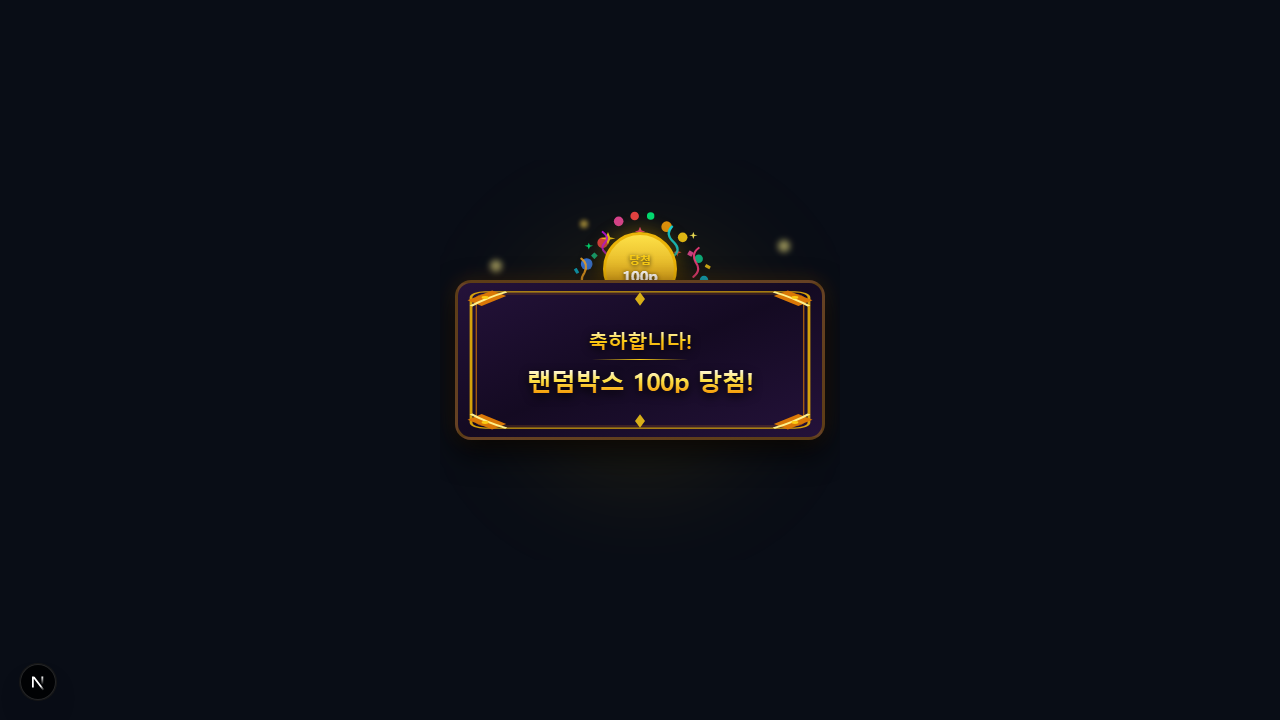
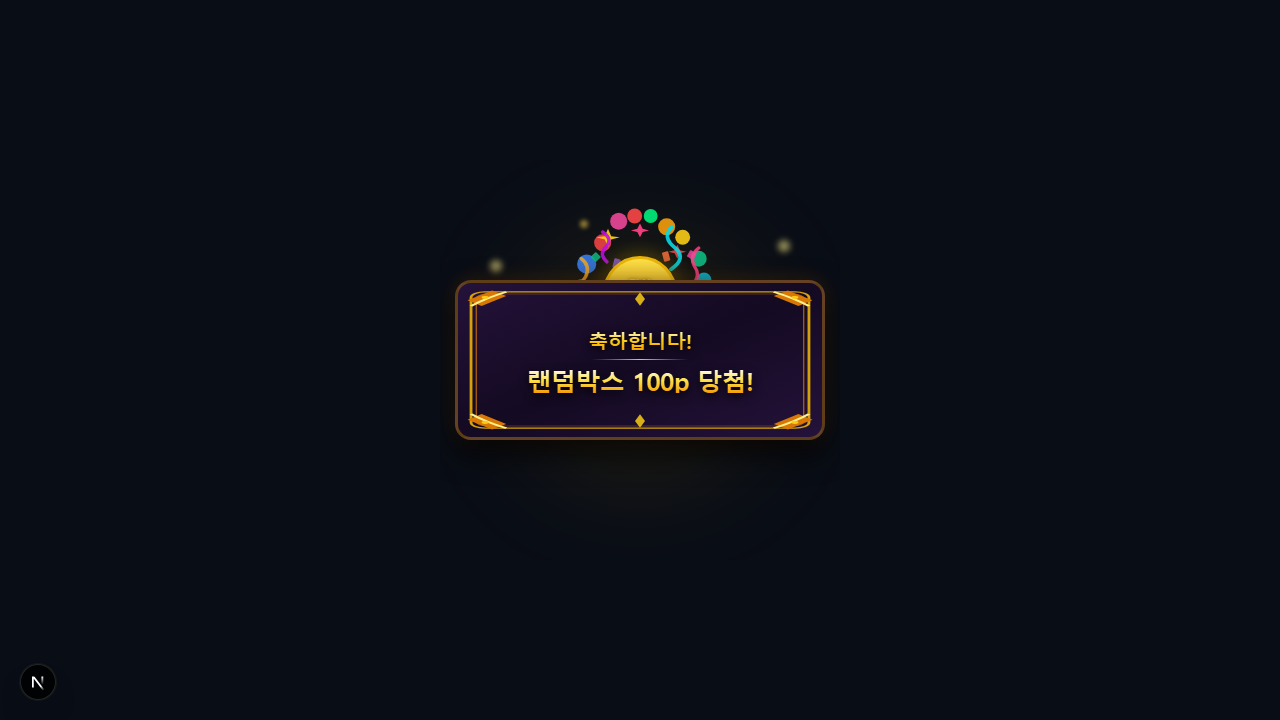
fix: 꽝/당첨 뱃지 Y축 위치 조정 및 폭죽 파티클 크기 2배 확대 적용

Changed region(s): [[0.4375, 0.275, 0.5625, 0.3972]]

diff --git a/app/render-banners/page.tsx b/app/render-banners/page.tsx
@@ -205,48 +205,44 @@ function LuckyBoxBanner({ amount }: { amount: number }) {
             <path d="M 125,117.5 L 125,197.5 L 135,192.5 L 135,112.5 Z" fill="url(#ribbonGrad2)" />
           </g>
 
-          {/* 폭죽 파티클 (정적 - 상자에서 위로 사방 부채꼴로 퍼져나감) */}
+          {/* 폭죽 파티클 (정적 - 상자에서 위로 사방 부채꼴로 퍼져나감, 크기 상향 조정) */}
           {/* 원형 파티클 */}
-          <circle cx="65" cy="40" r="5" fill="#ef4444" opacity="0.9" />
-          <circle cx="140" cy="35" r="4.5" fill="#facc15" opacity="0.9" />
-          <circle cx="50" cy="60" r="5.5" fill="#3b82f6" opacity="0.85" />
-          <circle cx="155" cy="55" r="4" fill="#10b981" opacity="0.9" />
-          <circle cx="80" cy="20" r="4.5" fill="#ec4899" opacity="0.9" />
-          <circle cx="125" cy="25" r="5" fill="#f59e0b" opacity="0.9" />
-          <circle cx="45" cy="80" r="3.5" fill="#8b5cf6" opacity="0.85" />
-          <circle cx="160" cy="75" r="4" fill="#06b6d4" opacity="0.9" />
-          <circle cx="95" cy="15" r="4" fill="#ef4444" opacity="0.95" />
-          <circle cx="110" cy="15" r="3.5" fill="#00e676" opacity="0.95" />
-          <circle cx="35" cy="95" r="4" fill="#ffee58" opacity="0.9" />
-          <circle cx="170" cy="90" r="3" fill="#2979ff" opacity="0.9" />
+          <circle cx="65" cy="40" r="8" fill="#ef4444" opacity="0.9" />
+          <circle cx="140" cy="35" r="7" fill="#facc15" opacity="0.9" />
+          <circle cx="50" cy="60" r="9" fill="#3b82f6" opacity="0.85" />
+          <circle cx="155" cy="55" r="7.5" fill="#10b981" opacity="0.9" />
+          <circle cx="80" cy="20" r="8" fill="#ec4899" opacity="0.9" />
+          <circle cx="125" cy="25" r="8" fill="#f59e0b" opacity="0.9" />
+          <circle cx="45" cy="80" r="6" fill="#8b5cf6" opacity="0.85" />
+          <circle cx="160" cy="75" r="7" fill="#06b6d4" opacity="0.9" />
+          <circle cx="95" cy="15" r="7" fill="#ef4444" opacity="0.95" />
+          <circle cx="110" cy="15" r="6.5" fill="#00e676" opacity="0.95" />
+          <circle cx="35" cy="95" r="7" fill="#ffee58" opacity="0.9" />
+          <circle cx="170" cy="90" r="5" fill="#2979ff" opacity="0.9" />
           
-          {/* 별 모양 파티클 */}
-          <path d="M 70,30 L 72,35 L 77,36 L 72,37 L 70,42 L 68,37 L 63,36 L 68,35 Z" fill="#facc15" opacity="0.95" />
-          <path d="M 135,45 L 136,48 L 139,49 L 136,50 L 135,53 L 134,50 L 131,49 L 134,48 Z" fill="#ef4444" opacity="0.9" />
-          <path d="M 100,25 L 101.5,28.5 L 105,29.5 L 101.5,30.5 L 100,34 L 98.5,30.5 L 95,29.5 L 98.5,28.5 Z" fill="#ff4081" opacity="0.95" />
-          <path d="M 52,40 L 53,42.5 L 56,43 L 53,43.8 L 52,46.5 L 51,43.8 L 48,43 L 51,42.5 Z" fill="#00e676" opacity="0.9" />
-          <path d="M 150,30 L 151,32.5 L 154,33 L 151,33.8 L 150,36.5 L 149,33.8 L 146,33 L 149,32.5 Z" fill="#ffee58" opacity="0.9" />
+          {/* 별 모양 파티클 (크기 확대) */}
+          <path d="M 70,27 L 73,34 L 81,35 L 73,37 L 70,44 L 67,37 L 59,35 L 67,34 Z" fill="#facc15" opacity="0.95" />
+          <path d="M 135,42 L 137.5,47 L 143.5,48.5 L 137.5,50 L 135,55 L 132.5,50 L 126.5,48.5 L 132.5,47 Z" fill="#ef4444" opacity="0.9" />
+          <path d="M 100,22 L 102.5,27 L 108.5,28.5 L 102.5,30 L 100,35 L 97.5,30 L 91.5,28.5 L 97.5,27 Z" fill="#ff4081" opacity="0.95" />
 
-          {/* 나선형 스트리머 (구불구불 리본) 파티클 */}
-          <path d="M 65,30 Q 72,35 67,40 Q 62,45 68,50" fill="none" stroke="#bd10e0" strokeWidth="2" strokeLinecap="round" opacity="0.9" />
-          <path d="M 130,25 Q 123,32 132,40 Q 140,48 128,55" fill="none" stroke="#05d9e8" strokeWidth="2.2" strokeLinecap="round" opacity="0.9" />
-          <path d="M 155,45 Q 148,50 152,58 Q 158,66 150,72" fill="none" stroke="#ff4081" strokeWidth="2" strokeLinecap="round" opacity="0.85" />
-          <path d="M 45,55 Q 52,60 48,68 Q 42,76 50,82" fill="none" stroke="#f5a623" strokeWidth="2" strokeLinecap="round" opacity="0.85" />
+          {/* 나선형 스트리머 (구불구불 리본) 파티클 (선 굵기 및 크기 확대) */}
+          <path d="M 65,30 Q 75,37 68,44 Q 61,51 69,58" fill="none" stroke="#bd10e0" strokeWidth="3.2" strokeLinecap="round" opacity="0.9" />
+          <path d="M 130,25 Q 120,35 133,45 Q 144,55 129,65" fill="none" stroke="#05d9e8" strokeWidth="3.5" strokeLinecap="round" opacity="0.9" />
+          <path d="M 155,45 Q 146,52 151,62 Q 158,72 148,80" fill="none" stroke="#ff4081" strokeWidth="3.2" strokeLinecap="round" opacity="0.85" />
+          <path d="M 45,55 Q 54,62 49,72 Q 41,82 51,90" fill="none" stroke="#f5a623" strokeWidth="3.2" strokeLinecap="round" opacity="0.85" />
 
-          {/* 사각형/리본 조각 파티클 */}
-          <rect x="55" y="50" width="4.5" height="4.5" rx="0.5" fill="#10b981" opacity="0.85" transform="rotate(45 57.25 52.25)" />
-          <rect x="145" y="48" width="4.5" height="4.5" rx="0.5" fill="#ec4899" opacity="0.85" transform="rotate(30 147.25 50.25)" />
-          <rect x="75" y="55" width="4" height="6" rx="0.5" fill="#8b5cf6" opacity="0.85" transform="rotate(15 77 58)" />
-          <rect x="120" y="50" width="6" height="6" rx="0.5" fill="#ff7043" opacity="0.85" transform="rotate(75 123 53)" />
-          <rect x="38" y="65" width="5" height="3" rx="0.5" fill="#06b6d4" opacity="0.8" transform="rotate(60 40.5 66.5)" />
-          <rect x="162" y="60" width="3" height="5" rx="0.5" fill="#facc15" opacity="0.8" transform="rotate(120 163.5 62.5)" />
+          {/* 사각형/리본 조각 파티클 (크기 확대) */}
+          <rect x="55" y="50" width="7" height="7" rx="1" fill="#10b981" opacity="0.85" transform="rotate(45 58.5 53.5)" />
+          <rect x="145" y="48" width="7" height="7" rx="1" fill="#ec4899" opacity="0.85" transform="rotate(30 148.5 51.5)" />
+          <rect x="75" y="55" width="6" height="9" rx="1" fill="#8b5cf6" opacity="0.85" transform="rotate(15 78 59.5)" />
+          <rect x="120" y="50" width="9" height="6" rx="1" fill="#ff7043" opacity="0.85" transform="rotate(75 124.5 53)" />
         </svg>
 
         {/* ═══ 당첨 코인 (HTML 오버레이 - z-index: 20으로 폭죽보다 위) ═══ */}
         <div 
           className="absolute left-1/2 -translate-x-1/2 pointer-events-none z-20 flex flex-col items-center justify-center"
           style={{
-            top: '72px', // 상자 입구 윗부분(Y=50)에 맞춘 수직 좌표
+            top: '96px', // 72px -> 96px 로 하향 조정하여 상자 높이와 맞춤
           }}
         >
           <div className="w-[74px] h-[74px] rounded-full bg-gradient-to-b from-yellow-300 to-yellow-600 border-[3.5px] border-yellow-500 shadow-[0_10px_25px_rgba(0,0,0,0.85),_0_0_20px_rgba(234,179,8,0.45)] flex flex-col items-center justify-center bg-[#1e1b4b]">

diff --git a/src/components/game/LuckyBoxGame.tsx b/src/components/game/LuckyBoxGame.tsx
@@ -34,19 +34,19 @@ const CONFETTI_PIECES = Array.from({ length: CONFETTI_COUNT }).map((_, i) => {
   let h = 6;
   if (rand < 0.3) {
     type = 'rect';
-    w = 5 + Math.floor(Math.random() * 6);
-    h = 5 + Math.floor(Math.random() * 10);
+    w = 10 + Math.floor(Math.random() * 8); // 10px ~ 17px
+    h = 12 + Math.floor(Math.random() * 15); // 12px ~ 26px
   } else if (rand < 0.55) {
     type = 'circle';
-    w = 6 + Math.floor(Math.random() * 6);
+    w = 12 + Math.floor(Math.random() * 10); // 12px ~ 21px
     h = w;
   } else if (rand < 0.8) {
     type = 'streamer';
-    w = 8 + Math.floor(Math.random() * 4);
-    h = 24 + Math.floor(Math.random() * 12);
+    w = 14 + Math.floor(Math.random() * 8); // 14px ~ 21px
+    h = 45 + Math.floor(Math.random() * 30); // 45px ~ 74px
   } else {
     type = 'star';
-    w = 10 + Math.floor(Math.random() * 6);
+    w = 18 + Math.floor(Math.random() * 12); // 18px ~ 29px
     h = w;
   }
   
@@ -234,11 +234,11 @@ export default function LuckyBoxGame({
             opacity: 1;
           }
           15% {
-            transform: translate(-50%, -50%) translate(var(--tx-15), var(--ty-15)) rotate(30deg) scale(1.25);
+            transform: translate(-50%, -50%) translate(var(--tx-15), var(--ty-15)) rotate(30deg) scale(1.5);
             opacity: 1;
           }
           100% {
-            transform: translate(-50%, -50%) translate(var(--tx), var(--ty)) rotate(var(--rot-end)) scale(0.3);
+            transform: translate(-50%, -50%) translate(var(--tx), var(--ty)) rotate(var(--rot-end)) scale(0.6);
             opacity: 0;
           }
         }
@@ -429,7 +429,7 @@ export default function LuckyBoxGame({
               <div 
                 className="absolute left-1/2 -translate-x-1/2 pointer-events-none z-20 flex flex-col items-center justify-center animate-in zoom-in duration-300"
                 style={{
-                  top: '10%', // 상자 바로 위에 둥실 떠오르도록 Y축 설정
+                  top: '20%', // 상자 바로 위에 둥실 떠오르도록 Y축 설정
                 }}
               >
                 {reward.amount > 0 ? (
